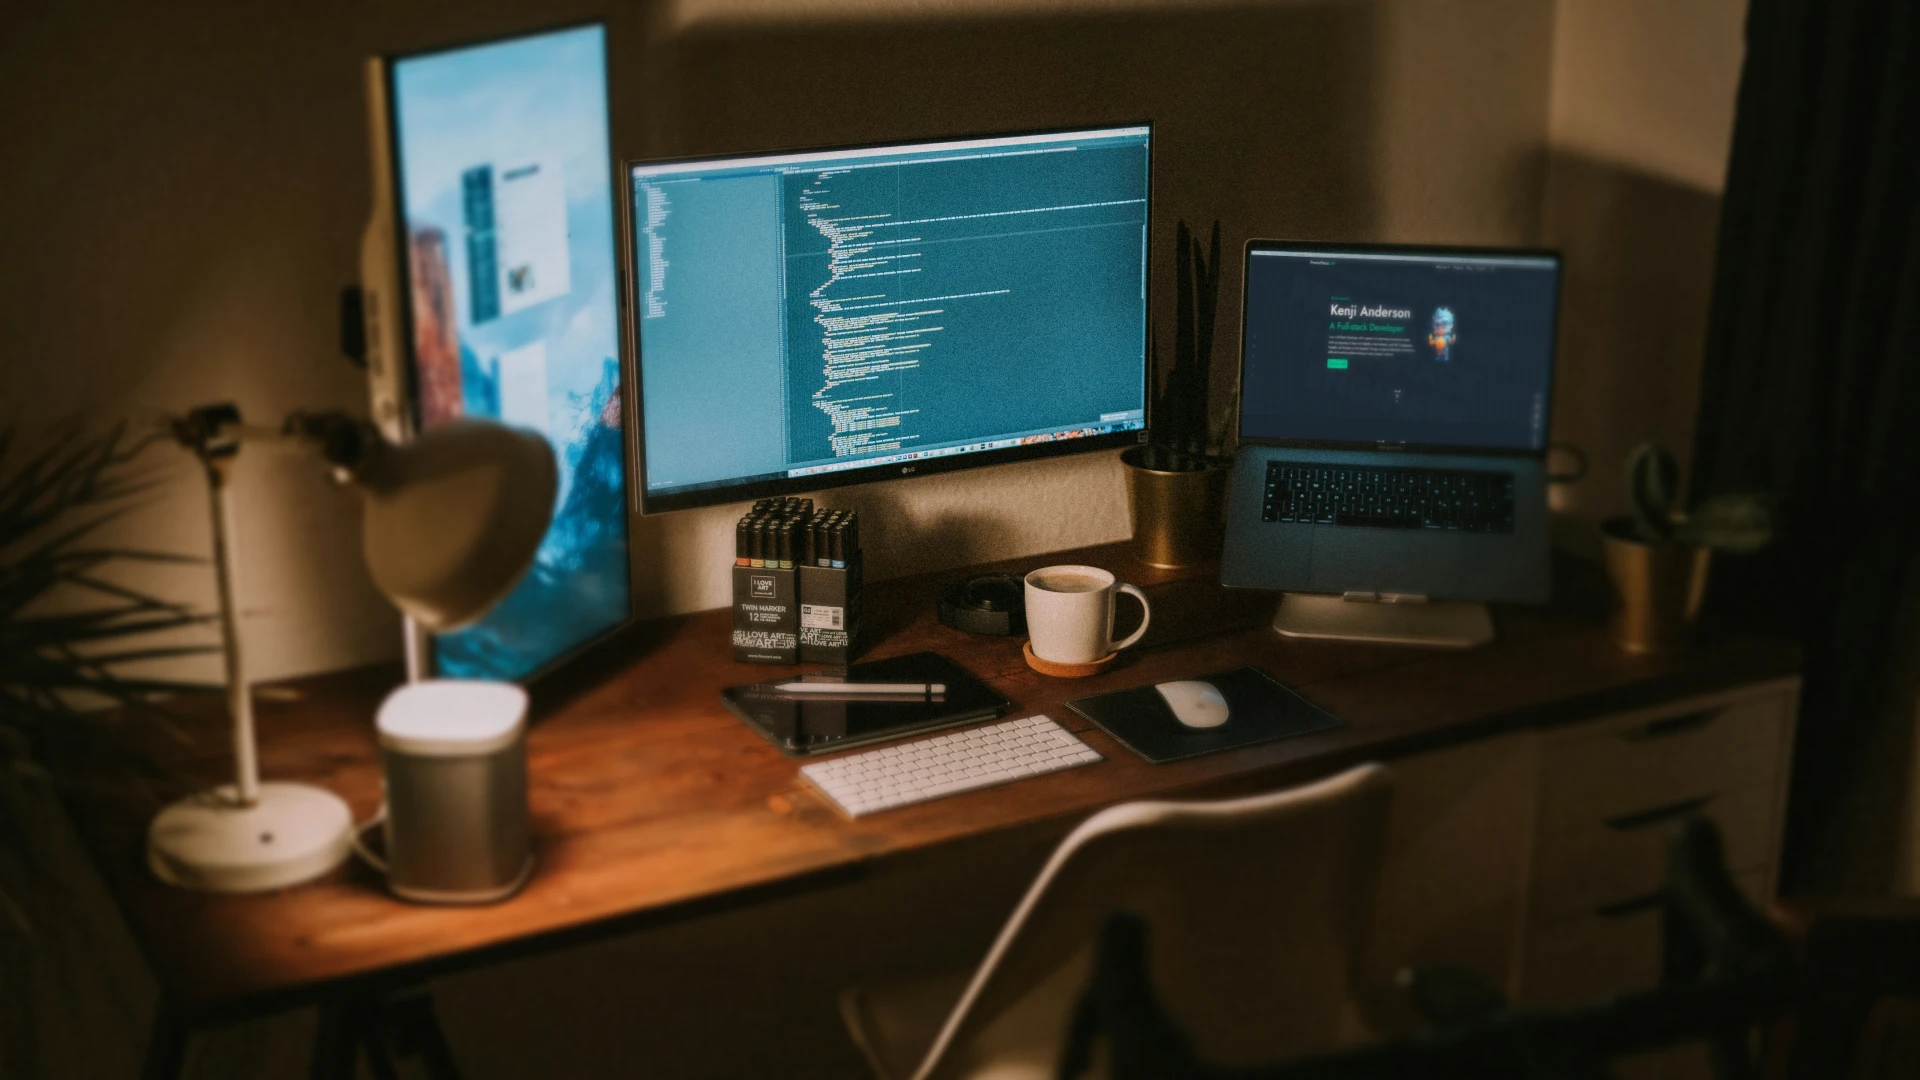
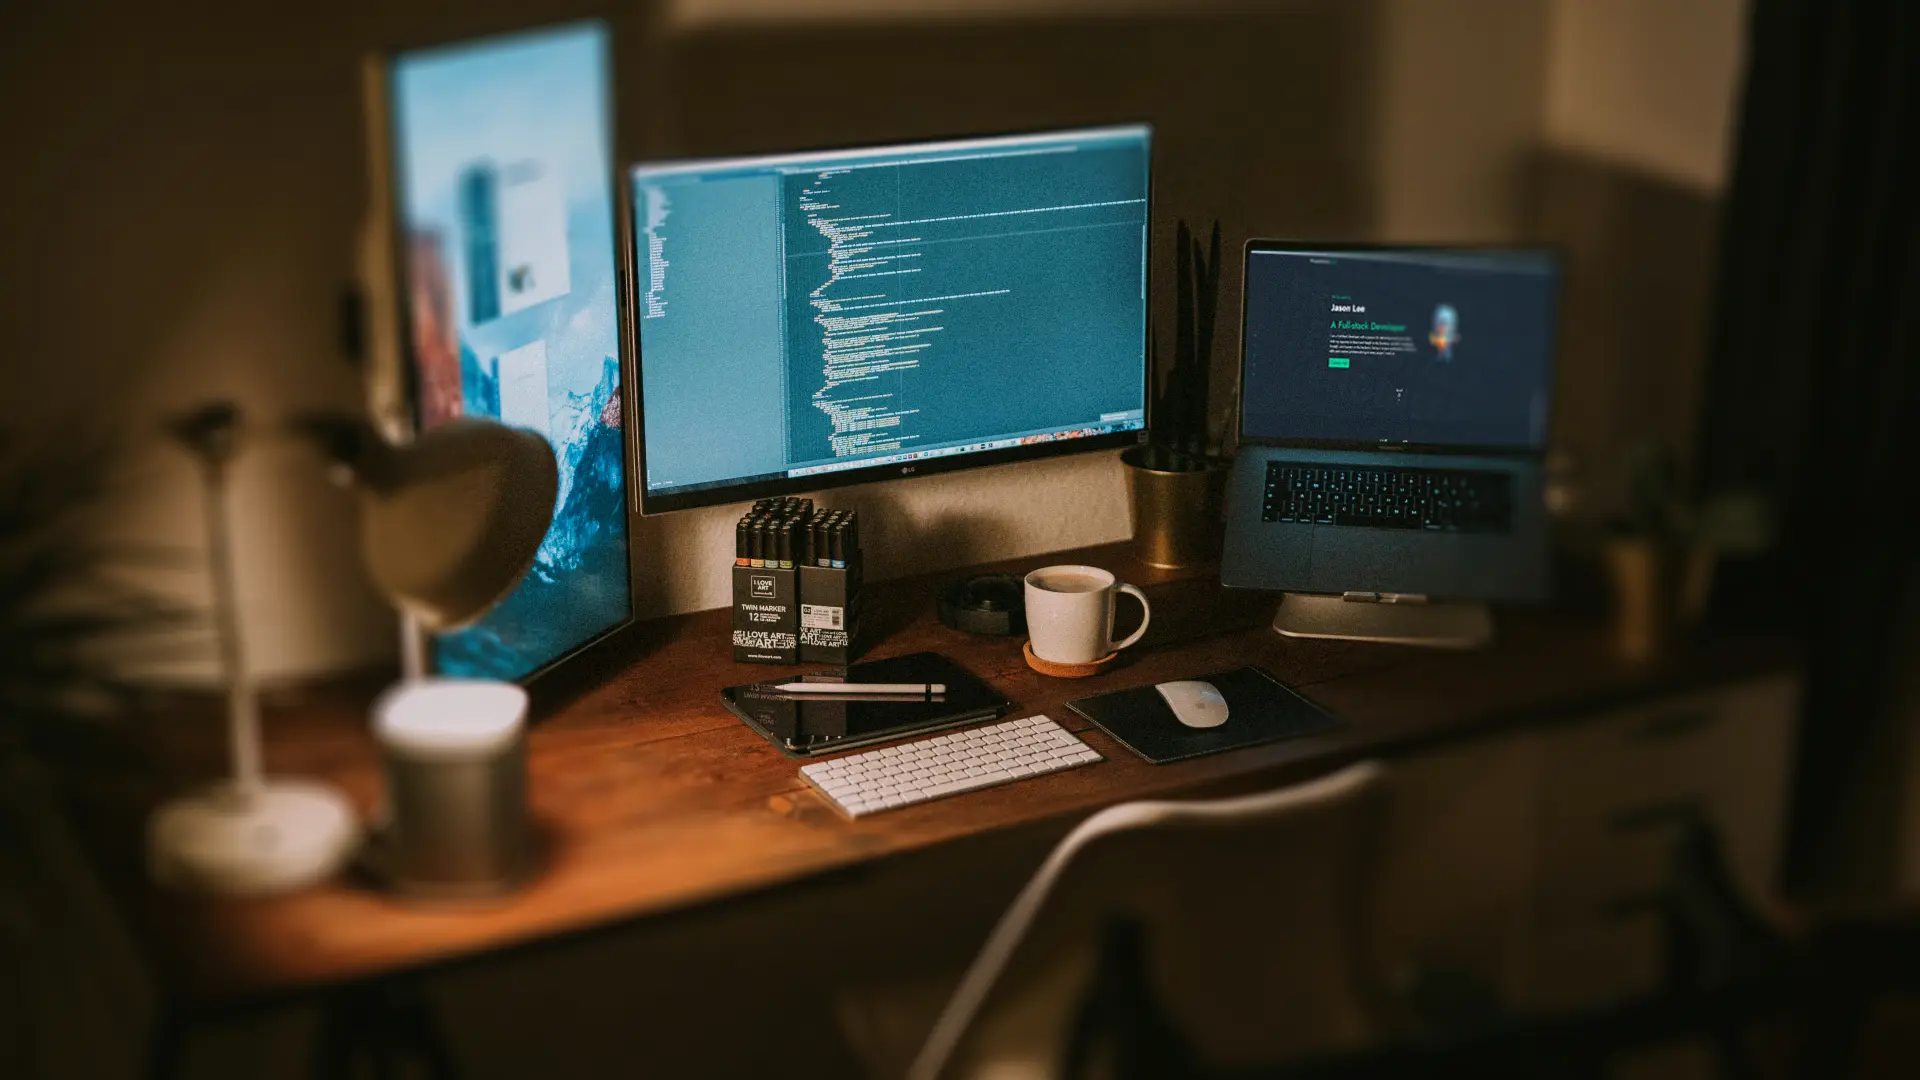
feat: update the images

diff --git a/pages/_document.tsx b/pages/_document.tsx
@@ -4,10 +4,10 @@ const Document = () => {
   return (
     <Html lang="en">
       <Head>
-        <title>Kenji Anderson - A Full-stack Developer</title>
+        <title>Jason Lee - A Full-stack Developer</title>
         <meta
           name="description"
-          content="Kenji Anderson is a full-stack developer based in Los Angeles, California. He is passionate about writing codes and developing web applications to solve real-life challenges."
+          content="Jason Lee is a full-stack developer based in Los Angeles, California. He is passionate about writing codes and developing web applications to solve real-life challenges."
         />
         <meta name="twitter:card" content="summary_large_image" />
         <meta
@@ -20,11 +20,11 @@ const Document = () => {
         />
         <meta
           name="twitter:title"
-          content="Kenji Anderson - A Full-stack Developer"
+          content="Jason Lee - A Full-stack Developer"
         />
         <meta
           name="twitter:description"
-          content="Kenji Anderson is a full-stack developer based in Los Angeles, California. He is passionate about writing codes and developing web applications to solve real-life challenges."
+          content="Jason Lee is a full-stack developer based in Los Angeles, California. He is passionate about writing codes and developing web applications to solve real-life challenges."
         />
         <meta
           name="twitter:image"

diff --git a/contents/how-do-i-develop-my-portfolio-website-blog.md b/contents/how-do-i-develop-my-portfolio-website-blog.md
@@ -9,7 +9,7 @@ tags:
   - Blog
 author: Prometheus
 type: article
-coverImage: https://res.cloudinary.com/dvknjzbss/image/upload/v1705926257/IMAGE/New_Project_gqzdrc.webp
+coverImage: https://asset.cloudinary.com/dvknjzbss/38307741e4a4c90eb4ec9724453ea222
 coverImageAlt: Macbook at a cafe
 title: How Do I Develop My Portfolio Website & Blog
 description:
